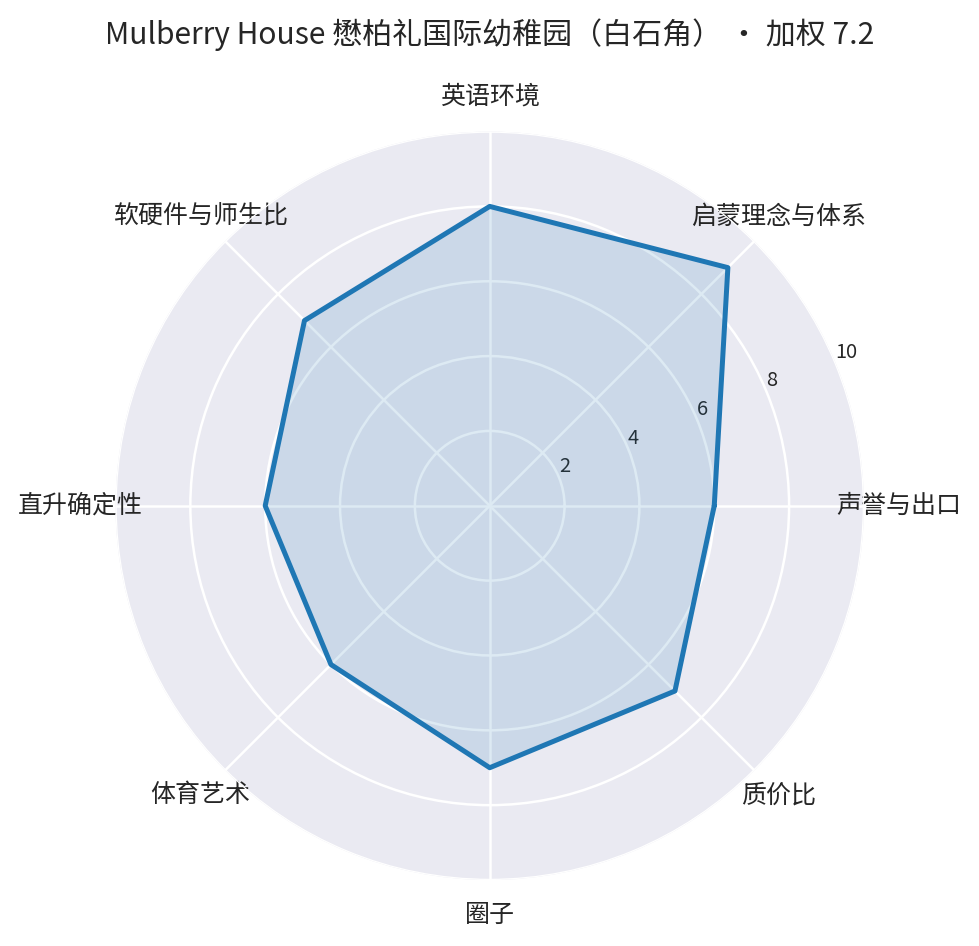
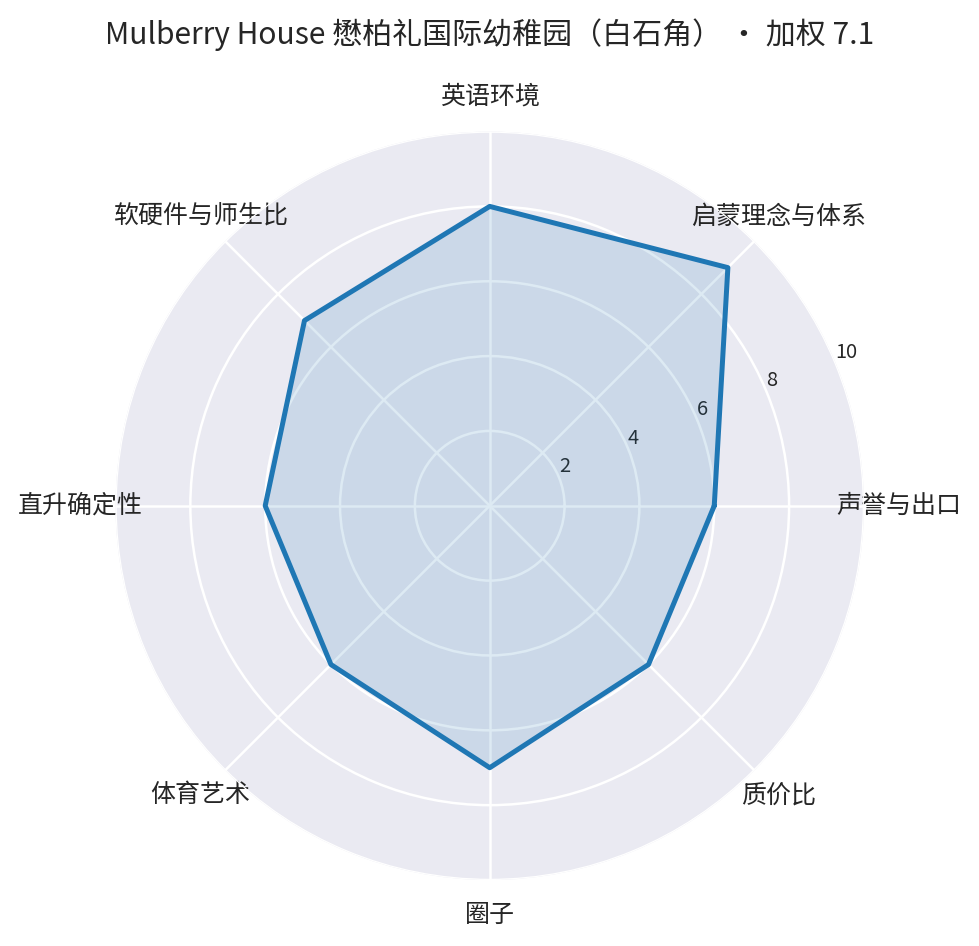
deploy mobile edition

Changed region(s): [[0.5209, 0.5518, 0.7354, 0.797], [0.4903, 0.797, 0.5209, 0.8277]]

diff --git a/index.html b/index.html
@@ -136,7 +136,7 @@ a{color:var(--acc)}
 <span class="chip" data-f="local">本地线</span>
 </div>
 
-<div class="sgrid" id="grid"><a class="scard g" data-tags="t1 intl y27 th" href="schools/esf.html"><div class="score">8.7<small>加权总分</small></div><div class="shead"><img class="slogo" src="assets/img/esf/logo.jpg" alt="ESF 英基国际幼稚园 校徽" loading="lazy"><div><div class="nm">ESF 英基国际幼稚园</div><div class="tr">国际线 · 主力</div></div></div><div class="tagl">全港最大国际教育集团 · K1 锁定英基 Y1</div><div class="vd"><span class="tag good">合适</span></div><div class="fee">学费（2026/27 官网口径，待 EDB 终批）：乌溪沙 117,900、雅柏英文流 10…</div><div class="dl hot">🗓 中央申请 2026.9.1–9.30（逾期等下一年；不按递交先后排序，按优先级派位）；校方书面 2026…</div><div class="bars"><i></i><i></i><i></i><i></i><i></i><i></i><i></i><i></i></div><div class="geo">地理弹性 <b>●●●●○</b></div></a><a class="scard w" data-tags="t1 intl y27 th" href="schools/cdnis.html"><div class="score">8.55<small>加权总分</small></div><div class="shead"><img class="slogo" src="assets/img/cdnis/logo.jpg" alt="CDNIS 香港加拿大国际学校 校徽" loading="lazy"><div><div class="nm">CDNIS 香港加拿大国际学校</div><div class="tr">国际线 · 主力</div></div></div><div class="tagl">IB＋OSSD 双文凭 · 北美出口强</div><div class="vd"><span class="tag warn">合适</span></div><div class="fee">Nursery 学费 142,780（2026/27）＋年资本征费 43,000（无债券者）…</div><div class="dl hot">🗓 Nursery 申请窗口 2026.11.1–11.30（一年仅 30 天，校方书面 2026.9 确认…</div><div class="bars"><i></i><i></i><i></i><i></i><i></i><i></i><i></i><i></i></div><div class="geo">地理弹性 <b>●●○○○</b></div></a><a class="scard g" data-tags="t1 intl y27 th lock" href="schools/malvern.html"><div class="score">8.4<small>加权总分</small></div><div class="shead"><img class="slogo" src="assets/img/malvern/logo.jpg" alt="Malvern 墨尔文（MCPS→MCHK） 校徽" loading="lazy"><div><div class="nm">Malvern 墨尔文（MCPS→MCHK）</div><div class="tr">国际线 · 预算放开新增（准15年一贯）</div></div></div><div class="tagl">EYFS×Reggio · 森林海滩课堂</div><div class="vd"><span class="tag good">合适</span></div><div class="fee">幼儿段 MCPS（2026/27 SOSOMAMA 收费口径）：PN/K1/K2 半日 12…</div><div class="dl calm">🗓 滚动招生、先到先得——校方书面 2026.9：申请已开放，体验评估安排在 2026 年 10–11 月；…</div><div class="bars"><i></i><i></i><i></i><i></i><i></i><i></i><i></i><i></i></div><div class="geo">地理弹性 <b>●●●○○</b></div><span class="lock" title="2027 时间锁"></span></a><a class="scard w" data-tags="t2 intl y27 th" href="schools/ycis.html"><div class="score">7.95<small>加权总分</small></div><div class="shead"><img class="slogo" src="assets/img/ycis/logo.svg" alt="YCIS 耀中国际学校 校徽" loading="lazy"><div><div class="nm">YCIS 耀中国际学校</div><div class="tr">国际线 · 主力</div></div></div><div class="tagl">双班主任中英同班 · 两文三语最均衡</div><div class="vd"><span class="tag warn">合适</span></div><div class="fee">幼儿教育部 58,542–261,536（2025/26 区间口径，三岁半日班约 13.3–…</div><div class="dl calm">🗓 全年滚动、先到先得——越早递表排位越前</div><div class="bars"><i></i><i></i><i></i><i></i><i></i><i></i><i></i><i></i></div><div class="geo">地理弹性 <b>●●○○○</b></div></a><a class="scard g" data-tags="t2 intl y27" href="schools/ichk.html"><div class="score">7.85<small>加权总分</small></div><div class="shead"><img class="slogo" src="assets/img/ichk/logo.jpg" alt="ICHK 康乐园国际学校 校徽" loading="lazy"><div><div class="nm">ICHK 康乐园国际学校</div><div class="tr">国际线 · 观察</div></div></div><div class="tagl">森林学校标杆 · 康乐园大户外</div><div class="vd"><span class="tag good">合适</span></div><div class="fee">Nursery 半日 81,070 / 全日 140,880–145,110</div><div class="dl calm">🗓 全年滚动</div><div class="bars"><i></i><i></i><i></i><i></i><i></i><i></i><i></i><i></i></div><div class="geo">地理弹性 <b>●●○○○</b></div></a><a class="scard g" data-tags="t2 intl y27 th" href="schools/hka.html"><div class="score">7.8<small>加权总分</small></div><div class="shead"><img class="slogo" src="assets/img/hka/logo.png" alt="HKA 香港学堂（西贡） 校徽" loading="lazy"><div><div class="nm">HKA 香港学堂（西贡）</div><div class="tr">国际线 · 9/10 补评入榜（IB 全 continuum）</div></div></div><div class="tagl">IB 全 continuum · 3→18 一址一贯 · 师生比 1:6</div><div class="vd"><span class="tag good">合适</span></div><div class="fee">2026/27：学费 119,000 起（Pre-K 档）＋年建校费 32,000＋一次性入…</div><div class="dl calm">🗓 全年滚动——9/10 评估后列期权层，可随时递（1,500 元期权费）</div><div class="bars"><i></i><i></i><i></i><i></i><i></i><i></i><i></i><i></i></div><div class="geo">地理弹性 <b>●●○○○</b></div></a><a class="scard g" data-tags="t1 local y27" href="schools/vic.html"><div class="score">7.8<small>加权总分</small></div><div class="shead"><img class="slogo" src="assets/img/vic/logo.jpg" alt="维多利亚 VEO/VIC → VSA 路径 校徽" loading="lazy"><div><div class="nm">维多利亚 VEO/VIC → VSA 路径</div><div class="tr">本地线 · 名幼（IB 双语，VSA 优先）</div></div></div><div class="tagl">唯一自带 IB 出口 · VEO→VSA 优先</div><div class="vd"><span class="tag good">合适</span></div><div class="fee">VIC 铜锣湾口径（2025/26 收费证明书）：K1 半日 88,360 / K2 90,…</div><div class="dl hot">🗓 K1：2026.9.7 已开 → 10.26 17:00 截止（硬死线，建议 9 月内递）；PN：9.1…</div><div class="bars"><i></i><i></i><i></i><i></i><i></i><i></i><i></i><i></i></div><div class="geo">地理弹性 <b>●●●●○</b></div></a><a class="scard w" data-tags="t2 intl y28 th" href="schools/sis.html"><div class="score">7.65<small>加权总分</small></div><div class="shead"><img class="slogo" src="assets/img/sis/logo.jpg" alt="SIS 新加坡国际学校（2028 路线） 校徽" loading="lazy"><div><div class="nm">SIS 新加坡国际学校（2028 路线）</div><div class="tr">国际线 · 主力</div></div></div><div class="tagl">新加坡学术体系 · 中英数三强（2028 路线）</div><div class="vd"><span class="tag warn">有条件合适</span></div><div class="fee">PY 学费 106,100（2026/27）＋个人债券 200,000（离校 6 个月后可赎…</div><div class="dl hot">🗓 2028/29 intake 截止 2027.9.30（校方书面 2026.9 确认）；申请不需 HKI…</div><div class="bars"><i></i><i></i><i></i><i></i><i></i><i></i><i></i><i></i></div><div class="geo">地理弹性 <b>●●○○○</b></div></a><a class="scard w" data-tags="t2 intl y28" href="schools/shrewsbury.html"><div class="score">7.65<small>加权总分</small></div><div class="shead"><img class="slogo" src="assets/img/shrewsbury/logo.jpg" alt="思贝礼国际学校 Shrewsbury 校徽" loading="lazy"><div><div class="nm">思贝礼国际学校 Shrewsbury</div><div class="tr">国际线 · 观察（2028 路线）</div></div></div><div class="tagl">英国 470 年公学 · 汉庆双语路径（2028 路线）</div><div class="vd"><span class="tag warn">有条件合适</span></div><div class="fee">2026/27 书面口径：Nursery 半日 117,300 / 全日 176,800</div><div class="dl calm">🗓 2028/29 入学：2027 年 5 月起开放申请（全年滚动，评估按递表顺序排期）；评估排序：30万资…</div><div class="bars"><i></i><i></i><i></i><i></i><i class=lo></i><i></i><i></i><i></i></div><div class="geo">地理弹性 <b>●●○○○</b></div></a><a class="scard g" data-tags="t1 intl y27" href="schools/ims.html"><div class="score">7.65<small>加权总分</small></div><div class="shead"><img class="slogo" src="assets/img/ims/logo.svg" alt="IMS 蒙特梭利国际学校 校徽" loading="lazy"><div><div class="nm">IMS 蒙特梭利国际学校</div><div class="tr">国际线 · 启蒙理念原型校（2–14 岁）</div></div></div><div class="tagl">蒙特梭利原型校 · 自主工作混龄</div><div class="vd"><span class="tag good">合适</span></div><div class="fee">幼稚园段约 12.6–16.3 万/年（校区间有差异，2022–2026 混合口径）</div><div class="dl calm">🗓 全年滚动；建议 2026 年秋递表</div><div class="bars"><i></i><i></i><i></i><i></i><i></i><i></i><i></i><i></i></div><div class="geo">地理弹性 <b>●●○○○</b></div></a><a class="scard w" data-tags="t2 intl y27 th" href="schools/invictus.html"><div class="score">7.45<small>加权总分</small></div><div class="shead"><img class="slogo" src="assets/img/invictus/logo.jpg" alt="Invictus 茵维特学校（将军澳） 校徽" loading="lazy"><div><div class="nm">Invictus 茵维特学校（将军澳）</div><div class="tr">国际线 · 新晋（一条龙）</div></div></div><div class="tagl">平价国际一条龙 · 无债券无建校费</div><div class="vd"><span class="tag warn">2027 不可入</span></div><div class="fee">K1 半日 75,350 / 全日 113,600（2025/26 收费证明书口径）</div><div class="dl calm">🗓 全年滚动（2028/29 口径）；2026.10.31 开放日可实地看校；10 月 playgroup …</div><div class="bars"><i></i><i></i><i></i><i></i><i></i><i></i><i></i><i></i></div><div class="geo">地理弹性 <b>●●○○○</b></div></a><a class="scard b" data-tags="rel intl y27" href="schools/ics.html"><div class="score">7.35<small>加权总分</small></div><div class="shead"><img class="slogo" src="assets/img/ics/logo.jpg" alt="ICS 基督教国际学校（马鞍山/石门） 校徽" loading="lazy"><div><div class="nm">ICS 基督教国际学校（马鞍山/石门）</div><div class="tr">国际线 · 新晋（一条龙）</div></div></div><div class="tagl">新界东全程一条龙 · 基督教背景</div><div class="vd"><span class="tag bad">不合适</span></div><div class="fee">R1 91,000/年（2025/26 半日）</div><div class="dl calm">🗓 滚动招生、学额制；建议在评估季开始前递表（2026 年秋）</div><div class="bars"><i></i><i></i><i></i><i></i><i></i><i></i><i></i><i></i></div><div class="geo">地理弹性 <b>●●○○○</b></div></a><a class="scard g" data-tags="local y27" href="schools/mulberry.html"><div class="score">7.2<small>加权总分</small></div><div class="shead"><img class="slogo" src="assets/img/mulberry/logo.jpg" alt="Mulberry House 懋柏礼国际幼稚园（白石角） 校徽" loading="lazy"><div><div class="nm">Mulberry House 懋柏礼国际幼稚园（白石角）</div><div class="tr">本地线 · 私立双语（Reggio×EYFS）</div></div></div><div class="tagl">Reggio×EYFS · 双母语教师同班</div><div class="vd"><span class="tag good">合适</span></div><div class="fee">2026/27 校方收费表：五日 AM 双语 10,200/月×11＝11.2 万/年</div><div class="dl calm">🗓 滚动无死线；申请→观察游戏＋校长个别面谈→7 天内出 offer；证件（单程证/HKID）offer 后…</div><div class="bars"><i></i><i></i><i></i><i></i><i></i><i></i><i></i><i></i></div><div class="geo">地理弹性 <b>●●○○○</b></div></a><a class="scard g" data-tags="local y27" href="schools/learning-habitat.html"><div class="score">6.95<small>加权总分</small></div><div class="shead"><img class="slogo" src="assets/img/learning-habitat/logo.svg" alt="学之园幼稚园 Learning Habitat 校徽" loading="lazy"><div><div class="nm">学之园幼稚园 Learning Habitat</div><div class="tr">本地线 · 私立双语</div></div></div><div class="tagl">本地双语头部 · 升名小战绩硬</div><div class="vd"><span class="tag good">合适</span></div><div class="fee">半日班 84,000–90,000（2026/27，校区间有差异）</div><div class="dl hot">🗓 K1 网申 8.1–10.16（已开放、只接受网上报名）；面试 11 月；PN 申请细节 2027 年 …</div><div class="bars"><i></i><i></i><i></i><i></i><i></i><i class=lo></i><i></i><i></i></div><div class="geo">地理弹性 <b>●●●●○</b></div></a><a class="scard w" data-tags="t2 intl y27" href="schools/ashk.html"><div class="score">6.85<small>加权总分</small></div><div class="shead"><img class="slogo" src="assets/img/ashk/logo.svg" alt="ASHK 香港美国学校 校徽" loading="lazy"><div><div class="nm">ASHK 香港美国学校</div><div class="tr">国际线 · 观察</div></div></div><div class="tagl">美式探究＋STEAM · 大埔专用校园</div><div class="vd"><span class="tag warn">2027/2028 均不可入</span></div><div class="fee">2026/27 总费用：KG3 约 200,100、G1 起 225,800</div><div class="dl hot">🗓 2029/30 KG：2028.10 前申请（校方书面 2026.9）——2027/2028 两个入学年…</div><div class="bars"><i></i><i></i><i></i><i></i><i></i><i></i><i></i><i></i></div><div class="geo">地理弹性 <b>●●○○○</b></div></a><a class="scard b" data-tags="rel intl y27" href="schools/nis.html"><div class="score">6.75<small>加权总分</small></div><div class="shead"><img class="slogo" src="assets/img/nis/logo.jpg" alt="NIS 挪威国际学校 校徽" loading="lazy"><div><div class="nm">NIS 挪威国际学校</div><div class="tr">国际线 · 观察</div></div></div><div class="tagl">国际线最低价 · 大埔小班温馨</div><div class="vd"><span class="tag bad">不合适</span></div><div class="fee">K1–K2 学费 80,850＋年建校费 7,310 ≈ 8.8 万/年（2025/26）</div><div class="dl calm">🗓 全年可申（插班无截止）</div><div class="bars"><i></i><i></i><i></i><i></i><i class=lo></i><i></i><i></i><i></i></div><div class="geo">地理弹性 <b>●●○○○</b></div></a><a class="scard g" data-tags="local y27" href="schools/think.html"><div class="score">6.75<small>加权总分</small></div><div class="shead"><img class="slogo" src="assets/img/think/logo.jpg" alt="朗思国际幼稚园 Think（马鞍山） 校徽" loading="lazy"><div><div class="nm">朗思国际幼稚园 Think（马鞍山）</div><div class="tr">本地线 · 私立双语</div></div></div><div class="tagl">新界东双语价格最友好</div><div class="vd"><span class="tag good">合适</span></div><div class="fee">马鞍山 51,480–76,120/年（2026 榜口径，分课程）</div><div class="dl hot">🗓 2026 年 9–11 月</div><div class="bars"><i></i><i></i><i></i><i class=lo></i><i></i><i class=lo></i><i></i><i></i></div><div class="geo">地理弹性 <b>●●●●○</b></div></a><a class="scard g" data-tags="intl y27" href="schools/boxhill.html"><div class="score">6.7<small>加权总分</small></div><div class="shead"><img class="slogo" src="assets/img/boxhill/logo.jpg" alt="Box Hill 博士山国际幼稚园（马鞍山/将军澳/火炭） 校徽" loading="lazy"><div><div class="nm">Box Hill 博士山国际幼稚园（马鞍山/将军澳/火炭）</div><div class="tr">国际线 · 新晋（全英幼稚园）</div></div></div><div class="tagl">全英沉浸 · 三校舍全在新界东</div><div class="vd"><span class="tag good">合适</span></div><div class="fee">半日 77,000/年（2025/26，分 11 期）</div><div class="dl hot">🗓 2026 年 9–11 月（逐校查窗口）</div><div class="bars"><i></i><i></i><i></i><i></i><i class=lo></i><i></i><i></i><i></i></div><div class="geo">地理弹性 <b>●●●●○</b></div></a><a class="scard g" data-tags="local y27" href="schools/anchors.html"><div class="score">6.65<small>加权总分</small></div><div class="shead"><img class="slogo" src="assets/img/anchors/logo.jpg" alt="安基司 Anchors（粉岭/附属国际幼稚园） 校徽" loading="lazy"><div><div class="nm">安基司 Anchors（粉岭/附属国际幼稚园）</div><div class="tr">本地线 · 私立双语</div></div></div><div class="tagl">粉岭近深圳 · 元朗 15 万呎专用新校舍</div><div class="vd"><span class="tag good">合适</span></div><div class="fee">粉岭 56,100（2026 榜口径）</div><div class="dl hot">🗓 2026 年 9–11 月</div><div class="bars"><i></i><i></i><i></i><i></i><i></i><i></i><i></i><i></i></div><div class="geo">地理弹性 <b>●●○○○</b></div></a><a class="scard w" data-tags="local y27" href="schools/stcat.html"><div class="score">6.6<small>加权总分</small></div><div class="shead"><img class="slogo" src="assets/img/stcat/logo.svg" alt="国际英文幼稚园 St. Catherine&#x27;s（九龙塘） 校徽" loading="lazy"><div><div class="nm">国际英文幼稚园 St. Catherine&#x27;s（九龙塘）</div><div class="tr">本地线 · 名幼（传统升学型）</div></div></div><div class="tagl">升小战绩第一梯队 · 九龙塘老牌</div><div class="vd"><span class="tag warn">有条件合适</span></div><div class="fee">约 70,433/年（2025/26 榜单口径）</div><div class="dl hot">🗓 2026 年 9–11 月</div><div class="bars"><i></i><i class=lo></i><i></i><i></i><i></i><i class=lo></i><i></i><i></i></div><div class="geo">地理弹性 <b>●●○○○</b></div></a><a class="scard w" data-tags="local y27" href="schools/kingston.html"><div class="score">6.55<small>加权总分</small></div><div class="shead"><img class="slogo" src="assets/img/kingston/logo.jpg" alt="剑鸣幼稚园 Kingston（九龙塘） 校徽" loading="lazy"><div><div class="nm">剑鸣幼稚园 Kingston（九龙塘）</div><div class="tr">本地线 · 名幼（IB 幼教）</div></div></div><div class="tagl">IB 幼教 · 名幼圈质价比高</div><div class="vd"><span class="tag warn">有条件合适</span></div><div class="fee">约 64,350/年（2025/26 榜单口径）</div><div class="dl hot">🗓 2026 年 9–11 月</div><div class="bars"><i></i><i></i><i></i><i></i><i></i><i class=lo></i><i></i><i></i></div><div class="geo">地理弹性 <b>●●○○○</b></div></a><a class="scard g" data-tags="local y27" href="schools/zenith.html"><div class="score">6.15<small>加权总分</small></div><div class="shead"><img class="slogo" src="assets/img/zenith/logo.jpg" alt="英艺幼稚园 Zenith 校徽" loading="lazy"><div><div class="nm">英艺幼稚园 Zenith</div><div class="tr">本地线 · 私立双语</div></div></div><div class="tagl">两文三语＋STEAM · 大埔校舍在动线上</div><div class="vd"><span class="tag good">合适</span></div><div class="fee">大埔：半日 81,600 / 全日 110,400（2025/26，分12期）</div><div class="dl hot">🗓 2026 年 9–11 月（逐校查窗口）</div><div class="bars"><i></i><i></i><i></i><i class=lo></i><i></i><i class=lo></i><i></i><i></i></div><div class="geo">地理弹性 <b>●●●●○</b></div></a><a class="scard w" data-tags="local y27" href="schools/greenfield.html"><div class="score">5.8<small>加权总分</small></div><div class="shead"><img class="slogo" src="assets/img/greenfield/logo.jpg" alt="绿茵英文（国际）幼稚园 Greenfield 校徽" loading="lazy"><div><div class="nm">绿茵英文（国际）幼稚园 Greenfield</div><div class="tr">本地线 · 私立双语</div></div></div><div class="tagl">师生比全场最低 · 低龄关注度佳</div><div class="vd"><span class="tag warn">有条件合适</span></div><div class="fee">常宁路 56,880 / 日出康城 69,840 / 岚山 72,000（2026 口径，分…</div><div class="dl hot">🗓 2026 年 9–11 月</div><div class="bars"><i class=lo></i><i></i><i></i><i class=lo></i><i class=lo></i><i class=lo></i><i class=lo></i><i></i></div><div class="geo">地理弹性 <b>●●●●○</b></div></a><a class="scard b" data-tags="local y27" href="schools/searrogers.html"><div class="score">4.95<small>加权总分</small></div><div class="shead"><img class="slogo" src="assets/img/searrogers/logo.jpg" alt="弘爵国际学校 Sear Rogers（九龙城） 校徽" loading="lazy"><div><div class="nm">弘爵国际学校 Sear Rogers（九龙城）</div><div class="tr">本地线 · 观察</div></div></div><div class="tagl">九龙城 · 低价国际校</div><div class="vd"><span class="tag bad">不合适</span></div><div class="fee">约 5–7 万/年（公开口径有限，须向校方核实）</div><div class="dl hot">🗓 2026 年 9–11 月</div><div class="bars"><i class=lo></i><i class=lo></i><i></i><i class=lo></i><i class=lo></i><i class=lo></i><i class=lo></i><i></i></div><div class="geo">地理弹性 <b>●●○○○</b></div></a><a class="scard w" data-tags="local y27" href="schools/free-kg.html"><div class="score">4.35<small>加权总分</small></div><div class="shead"><img class="slogo" src="assets/img/free-kg/logo.jpg" alt="免费计划园 → 官津路径 校徽" loading="lazy"><div><div class="nm">免费计划园 → 官津路径</div><div class="tr">本地线 · 兜底</div></div></div><div class="tagl">官津免费计划 · 半日基本免费</div><div class="vd"><span class="tag warn">兜底</span></div><div class="fee">半日班基本免费</div><div class="dl hot">🗓 注册证 2026.9–11 月申请；各校报名同期</div><div class="bars"><i class=lo></i><i class=lo></i><i class=lo></i><i></i><i class=lo></i><i class=lo></i><i class=lo></i><i class=lo></i></div><div class="geo">地理弹性 <b>●●●●○</b></div></a></div>
+<div class="sgrid" id="grid"><a class="scard g" data-tags="t1 intl y27 th" href="schools/esf.html"><div class="score">8.7<small>加权总分</small></div><div class="shead"><img class="slogo" src="assets/img/esf/logo.jpg" alt="ESF 英基国际幼稚园 校徽" loading="lazy"><div><div class="nm">ESF 英基国际幼稚园</div><div class="tr">国际线 · 主力</div></div></div><div class="tagl">全港最大国际教育集团 · K1 锁定英基 Y1</div><div class="vd"><span class="tag good">合适</span></div><div class="fee">学费（2026/27 官网口径，待 EDB 终批）：乌溪沙 117,900、雅柏英文流 10…</div><div class="dl hot">🗓 中央申请 2026.9.1–9.30（逾期等下一年；不按递交先后排序，按优先级派位）；校方书面 2026…</div><div class="bars"><i></i><i></i><i></i><i></i><i></i><i></i><i></i><i></i></div><div class="geo">地理弹性 <b>●●●●○</b></div></a><a class="scard w" data-tags="t1 intl y27 th" href="schools/cdnis.html"><div class="score">8.55<small>加权总分</small></div><div class="shead"><img class="slogo" src="assets/img/cdnis/logo.jpg" alt="CDNIS 香港加拿大国际学校 校徽" loading="lazy"><div><div class="nm">CDNIS 香港加拿大国际学校</div><div class="tr">国际线 · 主力</div></div></div><div class="tagl">IB＋OSSD 双文凭 · 北美出口强</div><div class="vd"><span class="tag warn">合适</span></div><div class="fee">Nursery 学费 142,780（2026/27）＋年资本征费 43,000（无债券者）…</div><div class="dl hot">🗓 Nursery 申请窗口 2026.11.1–11.30（一年仅 30 天，校方书面 2026.9 确认…</div><div class="bars"><i></i><i></i><i></i><i></i><i></i><i></i><i></i><i></i></div><div class="geo">地理弹性 <b>●●○○○</b></div></a><a class="scard g" data-tags="t1 intl y27 th lock" href="schools/malvern.html"><div class="score">8.4<small>加权总分</small></div><div class="shead"><img class="slogo" src="assets/img/malvern/logo.jpg" alt="Malvern 墨尔文（MCPS→MCHK） 校徽" loading="lazy"><div><div class="nm">Malvern 墨尔文（MCPS→MCHK）</div><div class="tr">国际线 · 预算放开新增（准15年一贯）</div></div></div><div class="tagl">EYFS×Reggio · 森林海滩课堂</div><div class="vd"><span class="tag good">合适</span></div><div class="fee">幼儿段 MCPS（2026/27 SOSOMAMA 收费口径）：PN/K1/K2 半日 12…</div><div class="dl calm">🗓 滚动招生、先到先得——校方书面 2026.9：申请已开放，体验评估安排在 2026 年 10–11 月；…</div><div class="bars"><i></i><i></i><i></i><i></i><i></i><i></i><i></i><i></i></div><div class="geo">地理弹性 <b>●●●○○</b></div><span class="lock" title="2027 时间锁"></span></a><a class="scard w" data-tags="t2 intl y27 th" href="schools/ycis.html"><div class="score">7.95<small>加权总分</small></div><div class="shead"><img class="slogo" src="assets/img/ycis/logo.svg" alt="YCIS 耀中国际学校 校徽" loading="lazy"><div><div class="nm">YCIS 耀中国际学校</div><div class="tr">国际线 · 主力</div></div></div><div class="tagl">双班主任中英同班 · 两文三语最均衡</div><div class="vd"><span class="tag warn">合适</span></div><div class="fee">幼儿教育部 58,542–261,536（2025/26 区间口径，三岁半日班约 13.3–…</div><div class="dl calm">🗓 全年滚动、先到先得——越早递表排位越前</div><div class="bars"><i></i><i></i><i></i><i></i><i></i><i></i><i></i><i></i></div><div class="geo">地理弹性 <b>●●○○○</b></div></a><a class="scard g" data-tags="t2 intl y27" href="schools/ichk.html"><div class="score">7.85<small>加权总分</small></div><div class="shead"><img class="slogo" src="assets/img/ichk/logo.jpg" alt="ICHK 康乐园国际学校 校徽" loading="lazy"><div><div class="nm">ICHK 康乐园国际学校</div><div class="tr">国际线 · 观察</div></div></div><div class="tagl">森林学校标杆 · 康乐园大户外</div><div class="vd"><span class="tag good">合适</span></div><div class="fee">Nursery 半日 81,070 / 全日 140,880–145,110</div><div class="dl calm">🗓 全年滚动</div><div class="bars"><i></i><i></i><i></i><i></i><i></i><i></i><i></i><i></i></div><div class="geo">地理弹性 <b>●●○○○</b></div></a><a class="scard g" data-tags="t2 intl y27 th" href="schools/hka.html"><div class="score">7.8<small>加权总分</small></div><div class="shead"><img class="slogo" src="assets/img/hka/logo.png" alt="HKA 香港学堂（西贡） 校徽" loading="lazy"><div><div class="nm">HKA 香港学堂（西贡）</div><div class="tr">国际线 · 9/10 补评入榜（IB 全 continuum）</div></div></div><div class="tagl">IB 全 continuum · 3→18 一址一贯 · 师生比 1:6</div><div class="vd"><span class="tag good">合适</span></div><div class="fee">2026/27：学费 119,000 起（Pre-K 档）＋年建校费 32,000＋一次性入…</div><div class="dl calm">🗓 全年滚动——9/10 评估后列期权层，可随时递（1,500 元期权费）</div><div class="bars"><i></i><i></i><i></i><i></i><i></i><i></i><i></i><i></i></div><div class="geo">地理弹性 <b>●●○○○</b></div></a><a class="scard g" data-tags="t1 local y27" href="schools/vic.html"><div class="score">7.8<small>加权总分</small></div><div class="shead"><img class="slogo" src="assets/img/vic/logo.jpg" alt="维多利亚 VEO/VIC → VSA 路径 校徽" loading="lazy"><div><div class="nm">维多利亚 VEO/VIC → VSA 路径</div><div class="tr">本地线 · 名幼（IB 双语，VSA 优先）</div></div></div><div class="tagl">唯一自带 IB 出口 · VEO→VSA 优先</div><div class="vd"><span class="tag good">合适</span></div><div class="fee">VIC 铜锣湾口径（2025/26 收费证明书）：K1 半日 88,360 / K2 90,…</div><div class="dl hot">🗓 K1：2026.9.7 已开 → 10.26 17:00 截止（硬死线，建议 9 月内递）；PN：9.1…</div><div class="bars"><i></i><i></i><i></i><i></i><i></i><i></i><i></i><i></i></div><div class="geo">地理弹性 <b>●●●●○</b></div></a><a class="scard w" data-tags="t2 intl y28 th" href="schools/sis.html"><div class="score">7.65<small>加权总分</small></div><div class="shead"><img class="slogo" src="assets/img/sis/logo.jpg" alt="SIS 新加坡国际学校（2028 路线） 校徽" loading="lazy"><div><div class="nm">SIS 新加坡国际学校（2028 路线）</div><div class="tr">国际线 · 主力</div></div></div><div class="tagl">新加坡学术体系 · 中英数三强（2028 路线）</div><div class="vd"><span class="tag warn">有条件合适</span></div><div class="fee">PY 学费 106,100（2026/27）＋个人债券 200,000（离校 6 个月后可赎…</div><div class="dl hot">🗓 2028/29 intake 截止 2027.9.30（校方书面 2026.9 确认）；申请不需 HKI…</div><div class="bars"><i></i><i></i><i></i><i></i><i></i><i></i><i></i><i></i></div><div class="geo">地理弹性 <b>●●○○○</b></div></a><a class="scard w" data-tags="t2 intl y28" href="schools/shrewsbury.html"><div class="score">7.65<small>加权总分</small></div><div class="shead"><img class="slogo" src="assets/img/shrewsbury/logo.jpg" alt="思贝礼国际学校 Shrewsbury 校徽" loading="lazy"><div><div class="nm">思贝礼国际学校 Shrewsbury</div><div class="tr">国际线 · 观察（2028 路线）</div></div></div><div class="tagl">英国 470 年公学 · 汉庆双语路径（2028 路线）</div><div class="vd"><span class="tag warn">有条件合适</span></div><div class="fee">2026/27 书面口径：Nursery 半日 117,300 / 全日 176,800</div><div class="dl calm">🗓 2028/29 入学：2027 年 5 月起开放申请（全年滚动，评估按递表顺序排期）；评估排序：30万资…</div><div class="bars"><i></i><i></i><i></i><i></i><i class=lo></i><i></i><i></i><i></i></div><div class="geo">地理弹性 <b>●●○○○</b></div></a><a class="scard g" data-tags="t1 intl y27" href="schools/ims.html"><div class="score">7.65<small>加权总分</small></div><div class="shead"><img class="slogo" src="assets/img/ims/logo.svg" alt="IMS 蒙特梭利国际学校 校徽" loading="lazy"><div><div class="nm">IMS 蒙特梭利国际学校</div><div class="tr">国际线 · 启蒙理念原型校（2–14 岁）</div></div></div><div class="tagl">蒙特梭利原型校 · 自主工作混龄</div><div class="vd"><span class="tag good">合适</span></div><div class="fee">幼稚园段约 12.6–16.3 万/年（校区间有差异，2022–2026 混合口径）</div><div class="dl calm">🗓 全年滚动；建议 2026 年秋递表</div><div class="bars"><i></i><i></i><i></i><i></i><i></i><i></i><i></i><i></i></div><div class="geo">地理弹性 <b>●●○○○</b></div></a><a class="scard w" data-tags="t2 intl y27 th" href="schools/invictus.html"><div class="score">7.45<small>加权总分</small></div><div class="shead"><img class="slogo" src="assets/img/invictus/logo.jpg" alt="Invictus 茵维特学校（将军澳） 校徽" loading="lazy"><div><div class="nm">Invictus 茵维特学校（将军澳）</div><div class="tr">国际线 · 新晋（一条龙）</div></div></div><div class="tagl">平价国际一条龙 · 无债券无建校费</div><div class="vd"><span class="tag warn">2027 不可入</span></div><div class="fee">K1 半日 75,350 / 全日 113,600（2025/26 收费证明书口径）</div><div class="dl calm">🗓 全年滚动（2028/29 口径）；2026.10.31 开放日可实地看校；10 月 playgroup …</div><div class="bars"><i></i><i></i><i></i><i></i><i></i><i></i><i></i><i></i></div><div class="geo">地理弹性 <b>●●○○○</b></div></a><a class="scard b" data-tags="rel intl y27" href="schools/ics.html"><div class="score">7.35<small>加权总分</small></div><div class="shead"><img class="slogo" src="assets/img/ics/logo.jpg" alt="ICS 基督教国际学校（马鞍山/石门） 校徽" loading="lazy"><div><div class="nm">ICS 基督教国际学校（马鞍山/石门）</div><div class="tr">国际线 · 新晋（一条龙）</div></div></div><div class="tagl">新界东全程一条龙 · 基督教背景</div><div class="vd"><span class="tag bad">不合适</span></div><div class="fee">R1 91,000/年（2025/26 半日）</div><div class="dl calm">🗓 滚动招生、学额制；建议在评估季开始前递表（2026 年秋）</div><div class="bars"><i></i><i></i><i></i><i></i><i></i><i></i><i></i><i></i></div><div class="geo">地理弹性 <b>●●○○○</b></div></a><a class="scard g" data-tags="local y27" href="schools/mulberry.html"><div class="score">7.1<small>加权总分</small></div><div class="shead"><img class="slogo" src="assets/img/mulberry/logo.jpg" alt="Mulberry House 懋柏礼国际幼稚园（白石角） 校徽" loading="lazy"><div><div class="nm">Mulberry House 懋柏礼国际幼稚园（白石角）</div><div class="tr">本地线 · 私立双语（Reggio×EYFS）</div></div></div><div class="tagl">Reggio×EYFS · 双母语教师同班</div><div class="vd"><span class="tag good">合适</span></div><div class="fee">2026/27 校方收费表：五日 AM 双语 10,200/月×11＝11.2 万/年</div><div class="dl calm">🗓 滚动无死线；申请→观察游戏＋校长个别面谈→7 天内出 offer；证件（单程证/HKID）offer 后…</div><div class="bars"><i></i><i></i><i></i><i></i><i></i><i></i><i></i><i></i></div><div class="geo">地理弹性 <b>●●○○○</b></div></a><a class="scard g" data-tags="local y27" href="schools/learning-habitat.html"><div class="score">6.95<small>加权总分</small></div><div class="shead"><img class="slogo" src="assets/img/learning-habitat/logo.svg" alt="学之园幼稚园 Learning Habitat 校徽" loading="lazy"><div><div class="nm">学之园幼稚园 Learning Habitat</div><div class="tr">本地线 · 私立双语</div></div></div><div class="tagl">本地双语头部 · 升名小战绩硬</div><div class="vd"><span class="tag good">合适</span></div><div class="fee">半日班 84,000–90,000（2026/27，校区间有差异）</div><div class="dl hot">🗓 K1 网申 8.1–10.16（已开放、只接受网上报名）；面试 11 月；PN 申请细节 2027 年 …</div><div class="bars"><i></i><i></i><i></i><i></i><i></i><i class=lo></i><i></i><i></i></div><div class="geo">地理弹性 <b>●●●●○</b></div></a><a class="scard w" data-tags="t2 intl y27" href="schools/ashk.html"><div class="score">6.85<small>加权总分</small></div><div class="shead"><img class="slogo" src="assets/img/ashk/logo.svg" alt="ASHK 香港美国学校 校徽" loading="lazy"><div><div class="nm">ASHK 香港美国学校</div><div class="tr">国际线 · 观察</div></div></div><div class="tagl">美式探究＋STEAM · 大埔专用校园</div><div class="vd"><span class="tag warn">2027/2028 均不可入</span></div><div class="fee">2026/27 总费用：KG3 约 200,100、G1 起 225,800</div><div class="dl hot">🗓 2029/30 KG：2028.10 前申请（校方书面 2026.9）——2027/2028 两个入学年…</div><div class="bars"><i></i><i></i><i></i><i></i><i></i><i></i><i></i><i></i></div><div class="geo">地理弹性 <b>●●○○○</b></div></a><a class="scard b" data-tags="rel intl y27" href="schools/nis.html"><div class="score">6.75<small>加权总分</small></div><div class="shead"><img class="slogo" src="assets/img/nis/logo.jpg" alt="NIS 挪威国际学校 校徽" loading="lazy"><div><div class="nm">NIS 挪威国际学校</div><div class="tr">国际线 · 观察</div></div></div><div class="tagl">国际线最低价 · 大埔小班温馨</div><div class="vd"><span class="tag bad">不合适</span></div><div class="fee">K1–K2 学费 80,850＋年建校费 7,310 ≈ 8.8 万/年（2025/26）</div><div class="dl calm">🗓 全年可申（插班无截止）</div><div class="bars"><i></i><i></i><i></i><i></i><i class=lo></i><i></i><i></i><i></i></div><div class="geo">地理弹性 <b>●●○○○</b></div></a><a class="scard g" data-tags="local y27" href="schools/think.html"><div class="score">6.75<small>加权总分</small></div><div class="shead"><img class="slogo" src="assets/img/think/logo.jpg" alt="朗思国际幼稚园 Think（马鞍山） 校徽" loading="lazy"><div><div class="nm">朗思国际幼稚园 Think（马鞍山）</div><div class="tr">本地线 · 私立双语</div></div></div><div class="tagl">新界东双语价格最友好</div><div class="vd"><span class="tag good">合适</span></div><div class="fee">马鞍山 51,480–76,120/年（2026 榜口径，分课程）</div><div class="dl hot">🗓 2026 年 9–11 月</div><div class="bars"><i></i><i></i><i></i><i class=lo></i><i></i><i class=lo></i><i></i><i></i></div><div class="geo">地理弹性 <b>●●●●○</b></div></a><a class="scard g" data-tags="intl y27" href="schools/boxhill.html"><div class="score">6.7<small>加权总分</small></div><div class="shead"><img class="slogo" src="assets/img/boxhill/logo.jpg" alt="Box Hill 博士山国际幼稚园（马鞍山/将军澳/火炭） 校徽" loading="lazy"><div><div class="nm">Box Hill 博士山国际幼稚园（马鞍山/将军澳/火炭）</div><div class="tr">国际线 · 新晋（全英幼稚园）</div></div></div><div class="tagl">全英沉浸 · 三校舍全在新界东</div><div class="vd"><span class="tag good">合适</span></div><div class="fee">半日 77,000/年（2025/26，分 11 期）</div><div class="dl hot">🗓 2026 年 9–11 月（逐校查窗口）</div><div class="bars"><i></i><i></i><i></i><i></i><i class=lo></i><i></i><i></i><i></i></div><div class="geo">地理弹性 <b>●●●●○</b></div></a><a class="scard g" data-tags="local y27" href="schools/anchors.html"><div class="score">6.65<small>加权总分</small></div><div class="shead"><img class="slogo" src="assets/img/anchors/logo.jpg" alt="安基司 Anchors（粉岭/附属国际幼稚园） 校徽" loading="lazy"><div><div class="nm">安基司 Anchors（粉岭/附属国际幼稚园）</div><div class="tr">本地线 · 私立双语</div></div></div><div class="tagl">粉岭近深圳 · 元朗 15 万呎专用新校舍</div><div class="vd"><span class="tag good">合适</span></div><div class="fee">粉岭 56,100（2026 榜口径）</div><div class="dl hot">🗓 2026 年 9–11 月</div><div class="bars"><i></i><i></i><i></i><i></i><i></i><i></i><i></i><i></i></div><div class="geo">地理弹性 <b>●●○○○</b></div></a><a class="scard w" data-tags="local y27" href="schools/stcat.html"><div class="score">6.6<small>加权总分</small></div><div class="shead"><img class="slogo" src="assets/img/stcat/logo.svg" alt="国际英文幼稚园 St. Catherine&#x27;s（九龙塘） 校徽" loading="lazy"><div><div class="nm">国际英文幼稚园 St. Catherine&#x27;s（九龙塘）</div><div class="tr">本地线 · 名幼（传统升学型）</div></div></div><div class="tagl">升小战绩第一梯队 · 九龙塘老牌</div><div class="vd"><span class="tag warn">有条件合适</span></div><div class="fee">约 70,433/年（2025/26 榜单口径）</div><div class="dl hot">🗓 2026 年 9–11 月</div><div class="bars"><i></i><i class=lo></i><i></i><i></i><i></i><i class=lo></i><i></i><i></i></div><div class="geo">地理弹性 <b>●●○○○</b></div></a><a class="scard w" data-tags="local y27" href="schools/kingston.html"><div class="score">6.55<small>加权总分</small></div><div class="shead"><img class="slogo" src="assets/img/kingston/logo.jpg" alt="剑鸣幼稚园 Kingston（九龙塘） 校徽" loading="lazy"><div><div class="nm">剑鸣幼稚园 Kingston（九龙塘）</div><div class="tr">本地线 · 名幼（IB 幼教）</div></div></div><div class="tagl">IB 幼教 · 名幼圈质价比高</div><div class="vd"><span class="tag warn">有条件合适</span></div><div class="fee">约 64,350/年（2025/26 榜单口径）</div><div class="dl hot">🗓 2026 年 9–11 月</div><div class="bars"><i></i><i></i><i></i><i></i><i></i><i class=lo></i><i></i><i></i></div><div class="geo">地理弹性 <b>●●○○○</b></div></a><a class="scard g" data-tags="local y27" href="schools/zenith.html"><div class="score">6.15<small>加权总分</small></div><div class="shead"><img class="slogo" src="assets/img/zenith/logo.jpg" alt="英艺幼稚园 Zenith 校徽" loading="lazy"><div><div class="nm">英艺幼稚园 Zenith</div><div class="tr">本地线 · 私立双语</div></div></div><div class="tagl">两文三语＋STEAM · 大埔校舍在动线上</div><div class="vd"><span class="tag good">合适</span></div><div class="fee">大埔：半日 81,600 / 全日 110,400（2025/26，分12期）</div><div class="dl hot">🗓 2026 年 9–11 月（逐校查窗口）</div><div class="bars"><i></i><i></i><i></i><i class=lo></i><i></i><i class=lo></i><i></i><i></i></div><div class="geo">地理弹性 <b>●●●●○</b></div></a><a class="scard w" data-tags="local y27" href="schools/greenfield.html"><div class="score">5.8<small>加权总分</small></div><div class="shead"><img class="slogo" src="assets/img/greenfield/logo.jpg" alt="绿茵英文（国际）幼稚园 Greenfield 校徽" loading="lazy"><div><div class="nm">绿茵英文（国际）幼稚园 Greenfield</div><div class="tr">本地线 · 私立双语</div></div></div><div class="tagl">师生比全场最低 · 低龄关注度佳</div><div class="vd"><span class="tag warn">有条件合适</span></div><div class="fee">常宁路 56,880 / 日出康城 69,840 / 岚山 72,000（2026 口径，分…</div><div class="dl hot">🗓 2026 年 9–11 月</div><div class="bars"><i class=lo></i><i></i><i></i><i class=lo></i><i class=lo></i><i class=lo></i><i class=lo></i><i></i></div><div class="geo">地理弹性 <b>●●●●○</b></div></a><a class="scard b" data-tags="local y27" href="schools/searrogers.html"><div class="score">4.95<small>加权总分</small></div><div class="shead"><img class="slogo" src="assets/img/searrogers/logo.jpg" alt="弘爵国际学校 Sear Rogers（九龙城） 校徽" loading="lazy"><div><div class="nm">弘爵国际学校 Sear Rogers（九龙城）</div><div class="tr">本地线 · 观察</div></div></div><div class="tagl">九龙城 · 低价国际校</div><div class="vd"><span class="tag bad">不合适</span></div><div class="fee">约 5–7 万/年（公开口径有限，须向校方核实）</div><div class="dl hot">🗓 2026 年 9–11 月</div><div class="bars"><i class=lo></i><i class=lo></i><i></i><i class=lo></i><i class=lo></i><i class=lo></i><i class=lo></i><i></i></div><div class="geo">地理弹性 <b>●●○○○</b></div></a><a class="scard w" data-tags="local y27" href="schools/free-kg.html"><div class="score">4.35<small>加权总分</small></div><div class="shead"><img class="slogo" src="assets/img/free-kg/logo.jpg" alt="免费计划园 → 官津路径 校徽" loading="lazy"><div><div class="nm">免费计划园 → 官津路径</div><div class="tr">本地线 · 兜底</div></div></div><div class="tagl">官津免费计划 · 半日基本免费</div><div class="vd"><span class="tag warn">兜底</span></div><div class="fee">半日班基本免费</div><div class="dl hot">🗓 注册证 2026.9–11 月申请；各校报名同期</div><div class="bars"><i class=lo></i><i class=lo></i><i class=lo></i><i></i><i class=lo></i><i class=lo></i><i class=lo></i><i class=lo></i></div><div class="geo">地理弹性 <b>●●●●○</b></div></a></div>
 <p class="mut" style="margin-top:6px">卡片按加权总分排序；左缘色=结论（绿合适/琥珀有条件/灰移出）；八条细杠=八维评分剪影；Malvern 卡片右下角呼吸点=2027 时间锁（今年不进即失去保直升条款）。点卡片进单页。</p>
 
 <div class="card"><h2>八维雷达与总排序</h2>

diff --git a/shenzhen.html b/shenzhen.html
@@ -137,16 +137,16 @@ a{color:var(--acc)}
 <div class="card"><h2>🏫 第二层：本地民办双语线（主线候选）</h2>
 <div class="tscroll w6"><table>
 <tr><th>园所</th><th>区域</th><th>体系/特色</th><th>费用口径（年份）</th><th>班别 2027/28</th><th>备注</th></tr>
-<tr><td><b>方方乐趣中英文（幼儿部）</b></td><td>福田</td><td>港系双语（香港方方乐趣 2002 创办）</td><td>K 段约 1.77 万/学期 ≈ 3.5 万/年（2022，待核）</td><td>托班/小小班 ✓</td><td>质价比突出，与香港路线同宗</td></tr>
-<tr><td><b>曦龙幼儿园</b></td><td>罗湖延芳路</td><td>AMI 蒙氏示范园，混龄</td><td>保教 5,000/月＋餐 500（2022，待核）</td><td>✓</td><td>质价比路线</td></tr>
+<tr><td><b>方方乐趣中英文（幼儿部）</b></td><td>福田新洲南路金地海景花园</td><td>港系双语（香港方方乐趣 2002 创办）</td><td>19,300/学期、全年含杂费约 5–6 万（2026 媒体口径）</td><td>托班/小小班 ✓</td><td><b>⚠ 民转公进行中（2026.5 报道，家长联名挽留双语模式）——双语存续是最大变量，报名前电话确认转型结果</b></td></tr>
+<tr><td><b>曦龙幼儿园</b></td><td>罗湖延芳路</td><td>AMI 蒙氏示范园，混龄，IC 班 1.5–3 岁可收</td><td>保教 5,000＋伙食 500/月（<b>罗湖区政府口径</b>）≈ 6 万/年</td><td>✓ IC 班可收</td><td>收费有政府备案坐实，质价比路线</td></tr>
 <tr><td><b>半岛金蕾幼儿园</b></td><td>罗湖</td><td>半岛蒙氏系，国际班外教全天带班</td><td>约 6 万/年档（2023，待核）</td><td>✓</td><td>罗湖老牌蒙氏</td></tr>
+<tr><td><b>维多利亚幼儿园（深圳）</b></td><td>福田</td><td>老牌 IB 园（2001 创办，3 园区），与香港 VEO/VIC 同宗品牌</td><td>6,500/月（2022）与 1.8 万/月（2023）两说，差距大、<b>待核</b></td><td>✓</td><td>用户为 VEO 康怡校友，品牌熟悉度＋IB 体系</td></tr>
 <tr><td><b>普林斯顿国际创科幼儿园</b></td><td>罗湖黄贝岭（全市 6 校区）</td><td>美式，外教多，体育特色，Toddler 12 人小班</td><td>约 16,500/月（2020–22，待核）</td><td>✓</td><td>连锁品牌</td></tr>
+<tr><td><b>加州儿童会</b></td><td>福田四季山水／南山瑞河耶纳</td><td>沉浸式英语（外籍 2006 创办）</td><td>12–15 万/年档（2022–23 多源，待核）</td><td><b>⚠ 3 岁起招（2015 口径）——麦兜 2027.9 差一个月，2027 或不可入，待核</b></td><td>无校车、户外一般（2022 媒体）</td></tr>
 <tr><td><b>英皇国际幼儿园</b></td><td>福田</td><td>双语，城堡校舍</td><td>12,000/月（2020，待核）</td><td>✓</td><td>待核</td></tr>
-<tr><td><b>加州儿童会</b></td><td>南山/福田</td><td>沉浸式英语（外籍 2006 创办）</td><td>42,718/学期（2022，待核）</td><td>✓</td><td>沉浸强度高于普通双语</td></tr>
 <tr><td><b>金生幼儿园</b></td><td>福田景田</td><td>IB-PYP 双语沉浸</td><td>媒体口径约 9.8 万/学期（2022，疑偏高，待核）</td><td>✓</td><td>IB 概念，费用须核实</td></tr>
 <tr><td><b>科发幼儿园</b></td><td>福田香蜜湖</td><td>EYFS＋耶鲁载格勒体系，市一级</td><td>保教 24,600/月（2026）</td><td>✓</td><td>费用≈香港国际校，过渡年不值</td></tr>
-<tr><td><b>温莎双语幼儿园</b></td><td>（德威姊妹校）</td><td>英式双语</td><td>1.0–1.3 万/月（2022，待核）</td><td>✓</td><td>待核</td></tr>
-<tr><td><b>吉纽斯国际幼儿园</b></td><td>连锁</td><td>DIC＋蒙氏＋外教</td><td>1 万+/月（2022，待核）</td><td>✓</td><td>待核</td></tr>
+<tr><td><b>吉纽斯国际幼儿园</b></td><td>连锁</td><td>DIC＋蒙氏＋外教</td><td>1 万+/月（2022，待核；另有 1,800/月口径，矛盾大、必核）</td><td>✓</td><td>待核</td></tr>
 </table></div>
 <p class="mut">高端参考（不作过渡年主线）：荟同 24.5–28.5 万/年、爱文 28.8 万/年、贝赛思幼儿园福田 PreK 约 23 万/年、IPC 19.8 万/年（南山/蛇口为主，2026 口径）——费用≈香港正式校、一年就走，不追。</p></div>
 
@@ -154,7 +154,7 @@ a{color:var(--acc)}
 <p class="mut">⚠ 置信度 LOW：仅媒体公开口径、无实地参观，只是相对排序的占位，<b>不是结论</b>；参观后按香港同框架逐园复评。维度顺序：声誉与出口 / 启蒙理念与体系 / 英语环境 / 软硬件与师生比 / 直升确定性 / 体育艺术 / 圈子 / 质价比（权重 10/20/15/10/15/10/10/10）。</p>
 <div class="tscroll w4"><table>
 <tr><th>园所</th><th>八维</th><th>加权总分</th></tr>
-<tr><td><b>半岛金蕾（蒙氏国际班）</b></td><td>6 / 8 / 7 / 6 / 4 / 5 / 5 / 7</td><td style='text-align:center'><b>6.15</b></td></tr><tr><td><b>普林斯顿创科（美式）</b></td><td>6 / 7 / 7 / 6 / 4 / 8 / 5 / 5</td><td style='text-align:center'><b>6.05</b></td></tr><tr><td><b>科发（EYFS+耶鲁）</b></td><td>6 / 8 / 7 / 7 / 4 / 6 / 6 / 3</td><td style='text-align:center'><b>6.05</b></td></tr><tr><td><b>加州儿童会（沉浸英语）</b></td><td>6 / 7 / 8 / 6 / 4 / 5 / 6 / 5</td><td style='text-align:center'><b>6.0</b></td></tr><tr><td><b>金生（IB-PYP）</b></td><td>6 / 8 / 7 / 6 / 5 / 5 / 6 / 3</td><td style='text-align:center'><b>6.0</b></td></tr><tr><td><b>曦龙（AMI 蒙氏）</b></td><td>6 / 8 / 5 / 6 / 4 / 5 / 5 / 8</td><td style='text-align:center'><b>5.95</b></td></tr><tr><td><b>方方乐趣（港系双语）</b></td><td>6 / 7 / 6 / 5 / 4 / 5 / 5 / 9</td><td style='text-align:center'><b>5.9</b></td></tr><tr><td><b>温莎（英式双语）</b></td><td>6 / 7 / 7 / 6 / 4 / 5 / 5 / 5</td><td style='text-align:center'><b>5.75</b></td></tr><tr><td><b>吉纽斯（DIC+蒙氏）</b></td><td>5 / 7 / 6 / 6 / 4 / 5 / 5 / 6</td><td style='text-align:center'><b>5.6</b></td></tr><tr><td><b>英皇（双语城堡）</b></td><td>5 / 6 / 6 / 7 / 4 / 5 / 5 / 5</td><td style='text-align:center'><b>5.4</b></td></tr>
+<tr><td><b>维多利亚深圳（IB 老牌）</b></td><td>7 / 7 / 7 / 6 / 5 / 5 / 6 / 6</td><td style='text-align:center'><b>6.2</b></td></tr><tr><td><b>半岛金蕾（蒙氏国际班）</b></td><td>6 / 8 / 7 / 6 / 4 / 5 / 5 / 7</td><td style='text-align:center'><b>6.15</b></td></tr><tr><td><b>普林斯顿创科（美式）</b></td><td>6 / 7 / 7 / 6 / 4 / 8 / 5 / 5</td><td style='text-align:center'><b>6.05</b></td></tr><tr><td><b>科发（EYFS+耶鲁）</b></td><td>6 / 8 / 7 / 7 / 4 / 6 / 6 / 3</td><td style='text-align:center'><b>6.05</b></td></tr><tr><td><b>金生（IB-PYP）</b></td><td>6 / 8 / 7 / 6 / 5 / 5 / 6 / 3</td><td style='text-align:center'><b>6.0</b></td></tr><tr><td><b>曦龙（AMI 蒙氏）</b></td><td>6 / 8 / 5 / 6 / 4 / 5 / 5 / 8</td><td style='text-align:center'><b>5.95</b></td></tr><tr><td><b>方方乐趣（港系双语）</b></td><td>6 / 7 / 6 / 5 / 3 / 5 / 5 / 9</td><td style='text-align:center'><b>5.75</b></td></tr><tr><td><b>加州儿童会（沉浸英语）</b></td><td>6 / 7 / 8 / 5 / 3 / 5 / 6 / 5</td><td style='text-align:center'><b>5.75</b></td></tr><tr><td><b>吉纽斯（DIC+蒙氏）</b></td><td>5 / 7 / 6 / 6 / 4 / 5 / 5 / 6</td><td style='text-align:center'><b>5.6</b></td></tr><tr><td><b>英皇（双语城堡）</b></td><td>5 / 6 / 6 / 7 / 4 / 5 / 5 / 5</td><td style='text-align:center'><b>5.4</b></td></tr>
 </table></div></div>
 
 <div class="card"><h2>🏛 第三层：本地公办/普惠线（兜底）</h2>

diff --git a/schools/mulberry.html b/schools/mulberry.html
@@ -132,11 +132,11 @@ a{color:var(--acc)}
 
 <div class="card"><h2>八维评分（1–10）与依据</h2>
 <div class="grid2">
-<div><div class="tscroll"><table><tr><th>维度</th><th>分</th></tr><tr><td>声誉与出口<div class='dimbar'><i style='width:60%'></i></div></td><td style='text-align:center'><b>6</b></td></tr><tr><td>启蒙理念与体系<div class='dimbar'><i style='width:90%'></i></div></td><td style='text-align:center'><b>9</b></td></tr><tr><td>英语环境<div class='dimbar'><i style='width:80%'></i></div></td><td style='text-align:center'><b>8</b></td></tr><tr><td>软硬件与师生比<div class='dimbar'><i style='width:70%'></i></div></td><td style='text-align:center'><b>7</b></td></tr><tr><td>直升确定性<div class='dimbar'><i style='width:60%'></i></div></td><td style='text-align:center'><b>6</b></td></tr><tr><td>体育艺术<div class='dimbar'><i style='width:60%'></i></div></td><td style='text-align:center'><b>6</b></td></tr><tr><td>圈子<div class='dimbar'><i style='width:70%'></i></div></td><td style='text-align:center'><b>7</b></td></tr><tr><td>质价比<div class='dimbar'><i style='width:70%'></i></div></td><td style='text-align:center'><b>7</b></td></tr>
-<tr><td><b>加权总分</b>（理念20/英语15/直升15/声誉10/软硬件10/体艺10/圈子10/质价比10）</td><td style='text-align:center'><b>7.2</b></td></tr></table></div></div>
+<div><div class="tscroll"><table><tr><th>维度</th><th>分</th></tr><tr><td>声誉与出口<div class='dimbar'><i style='width:60%'></i></div></td><td style='text-align:center'><b>6</b></td></tr><tr><td>启蒙理念与体系<div class='dimbar'><i style='width:90%'></i></div></td><td style='text-align:center'><b>9</b></td></tr><tr><td>英语环境<div class='dimbar'><i style='width:80%'></i></div></td><td style='text-align:center'><b>8</b></td></tr><tr><td>软硬件与师生比<div class='dimbar'><i style='width:70%'></i></div></td><td style='text-align:center'><b>7</b></td></tr><tr><td>直升确定性<div class='dimbar'><i style='width:60%'></i></div></td><td style='text-align:center'><b>6</b></td></tr><tr><td>体育艺术<div class='dimbar'><i style='width:60%'></i></div></td><td style='text-align:center'><b>6</b></td></tr><tr><td>圈子<div class='dimbar'><i style='width:70%'></i></div></td><td style='text-align:center'><b>7</b></td></tr><tr><td>质价比<div class='dimbar'><i style='width:60%'></i></div></td><td style='text-align:center'><b>6</b></td></tr>
+<tr><td><b>加权总分</b>（理念20/英语15/直升15/声誉10/软硬件10/体艺10/圈子10/质价比10）</td><td style='text-align:center'><b>7.1</b></td></tr></table></div></div>
 <div><img class="chart" src="../assets/radar_mulberry.png" alt="雷达图"></div>
 </div>
-<p class="mut" style="margin-top:8px">评分备注：声誉6（小规模）｜体系8（Reggio×EYFS双母语同班）｜英语8（英普沉浸）｜师生比8（小班）｜衔接6（出口数据少）｜费用：9/11 校方收费表上修（主流班 11.2 万），质价比维度待参观后复评（备注文字沿用上轮六维口径，个别维度未展开体艺/圈子；以八维表格为准）</p>
+<p class="mut" style="margin-top:8px">评分备注：声誉6（小规模）｜体系8（Reggio×EYFS双母语同班）｜英语8（英普沉浸）｜师生比8（小班）｜衔接6（出口数据少）｜费用：9/11 校方收费表上修（主流班 11.2 万超线）；10/20 全面刷新：质价比 7→6（守线需选 PM 班 9.6 万或三日英文班 5.8 万，主流班价格竞争力下降）（备注文字沿用上轮六维口径，个别维度未展开体艺/圈子；以八维表格为准）</p>
 <p class="mut">评分为研究员基于下列公开来源的综合判断，属主观加权，非官方排名；费用与招生口径以学校官网当年公告为准。</p>
 </div>
 
